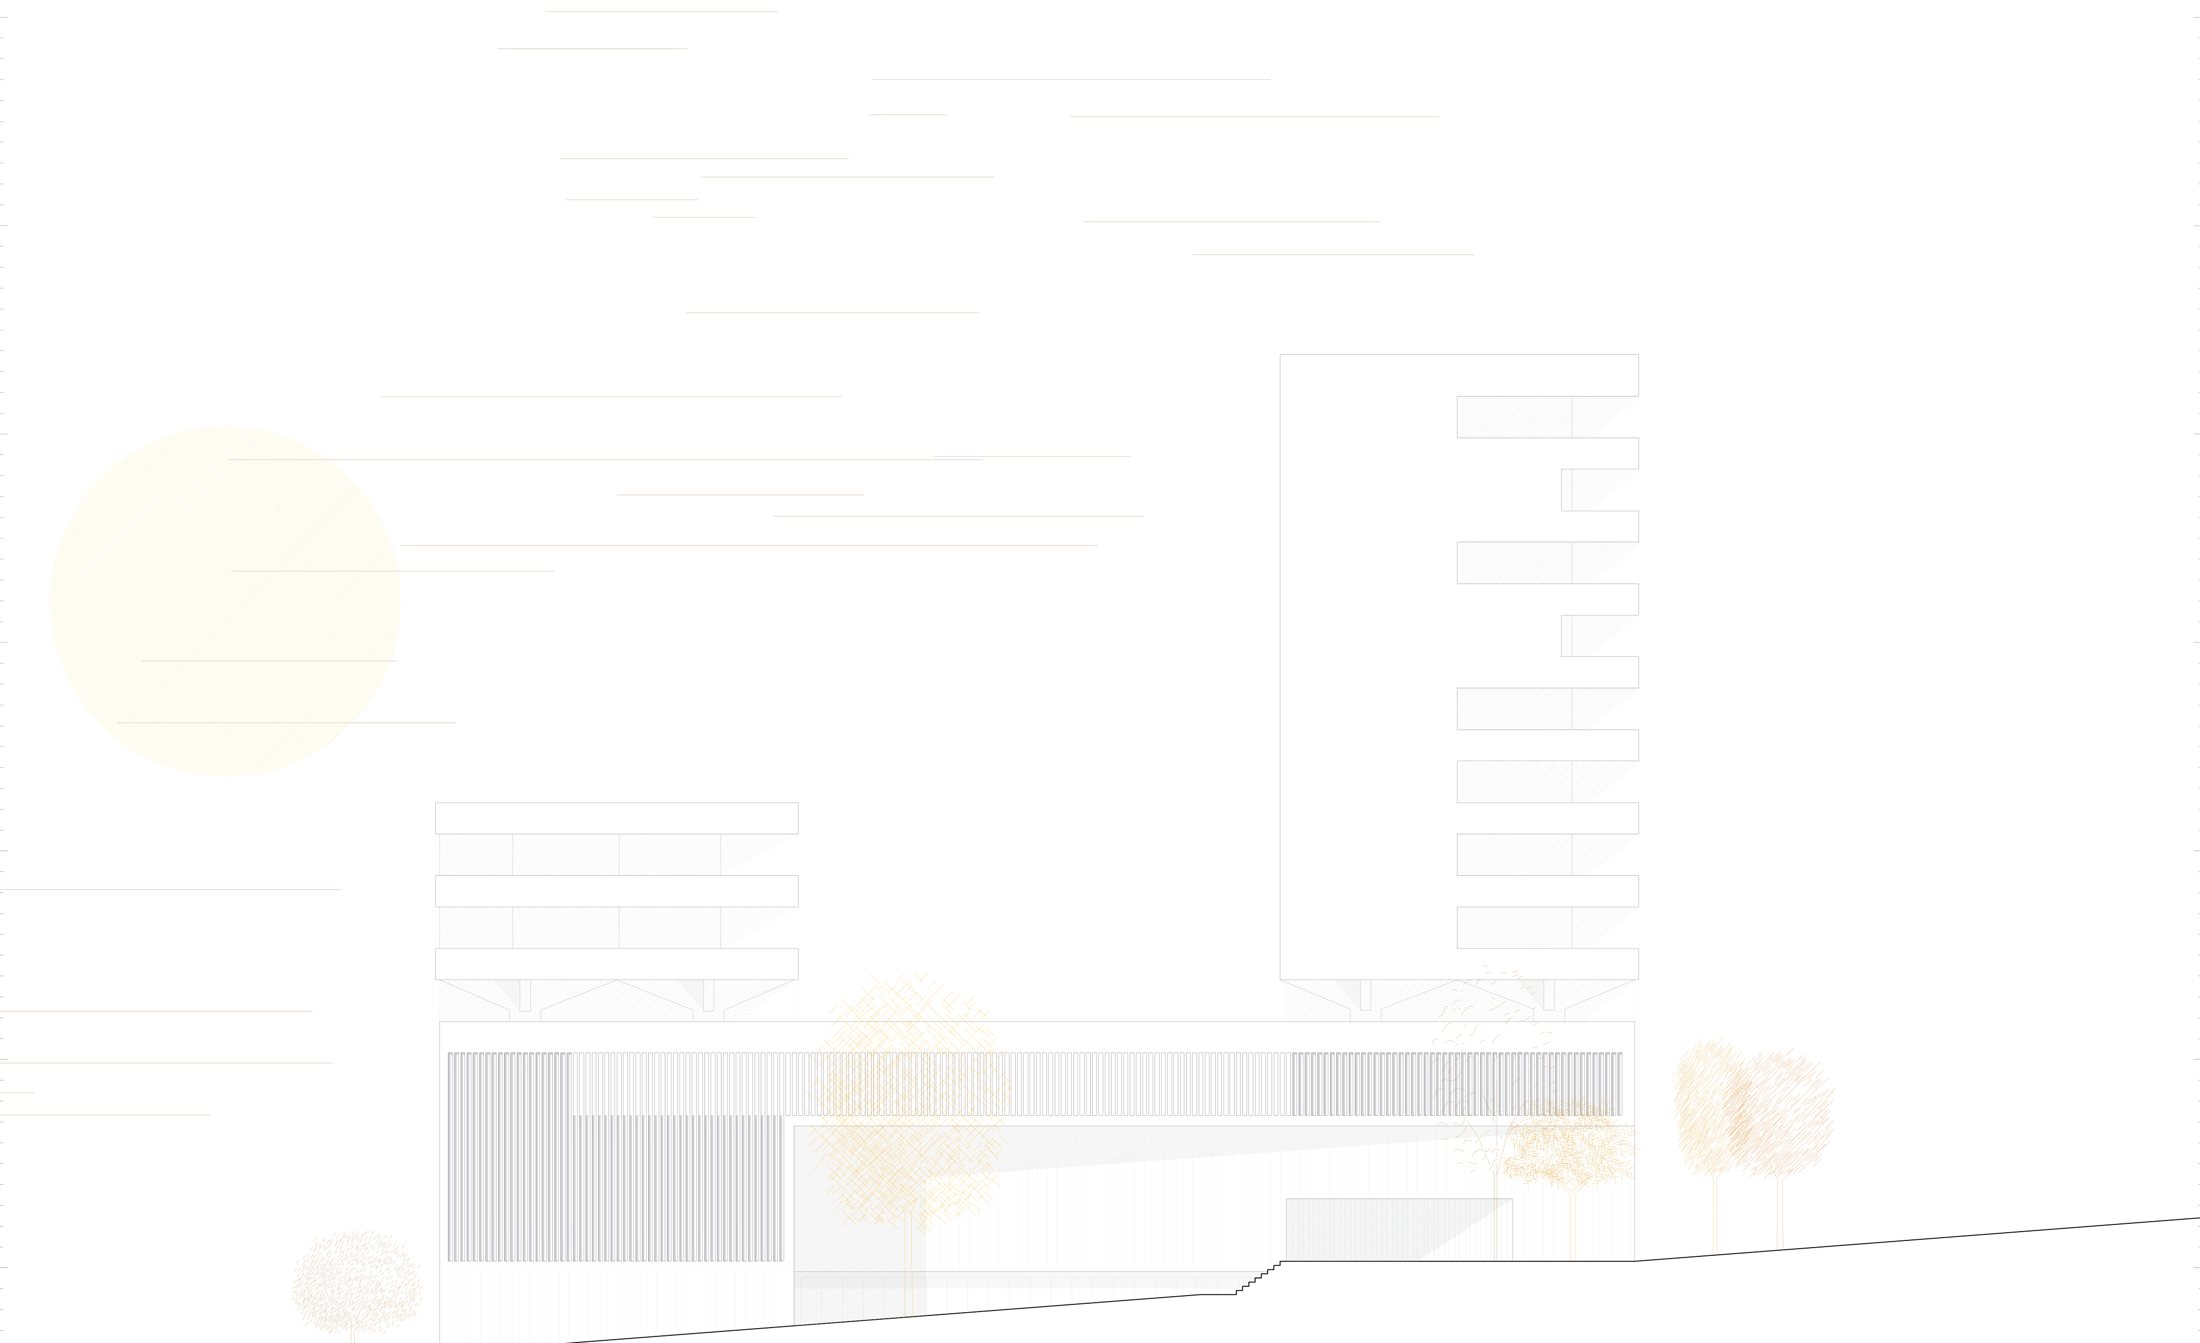
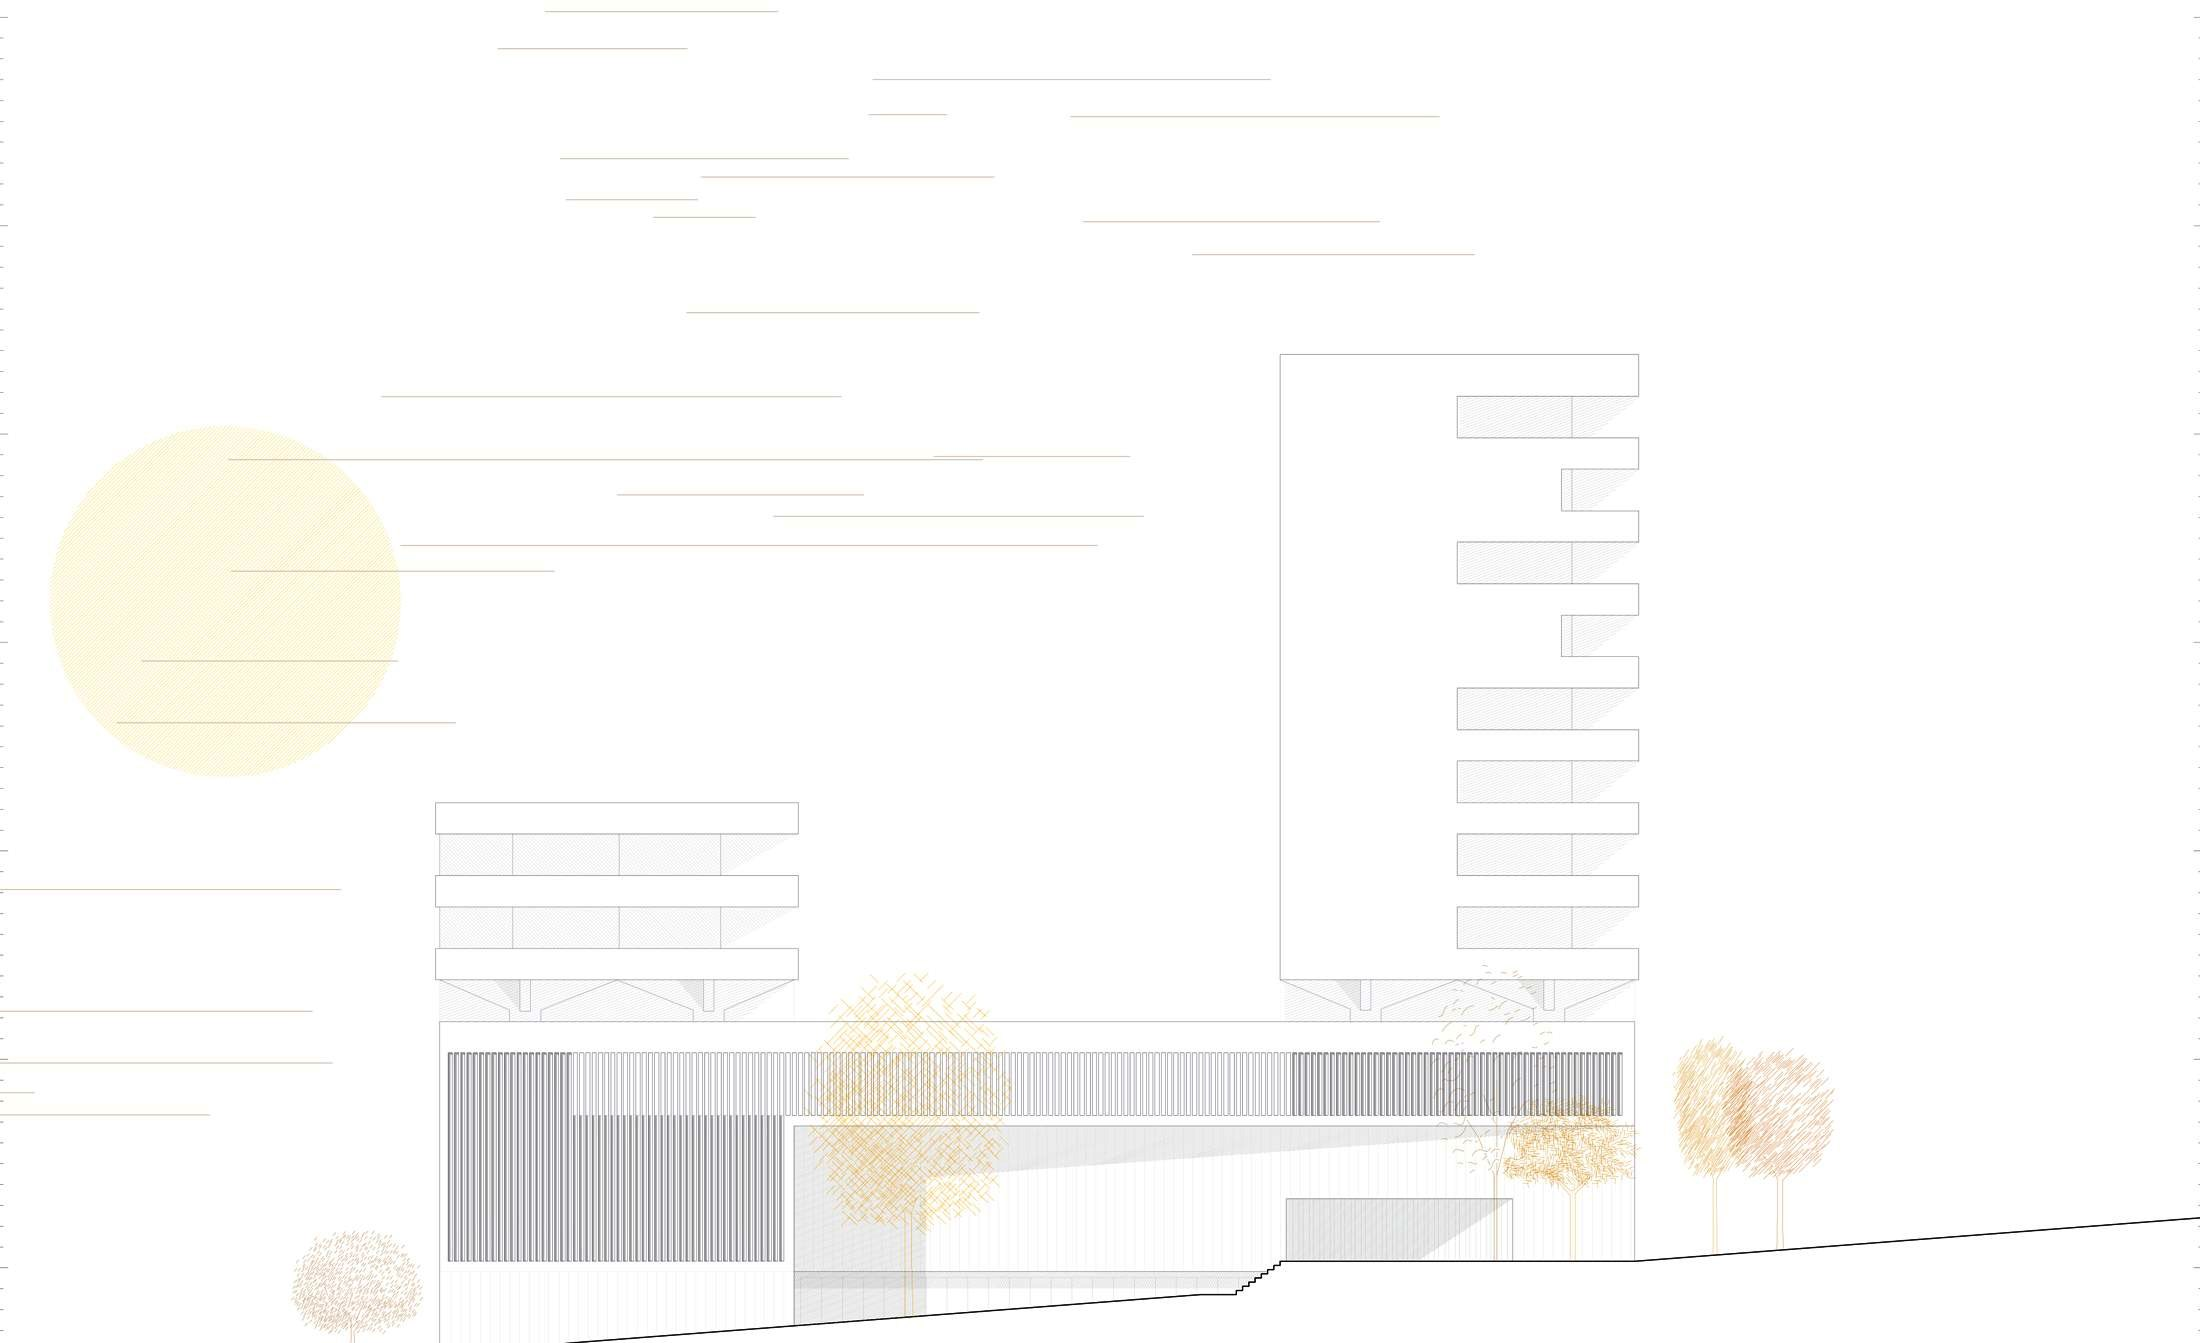
COLAB: fondo blanco, líneas de alzados y secciones reforzadas, leyenda de la axo al pasar por encima

Changed region(s): [[0.1855, 0.7632, 0.8345, 0.9464], [0.1236, 0.9464, 0.1855, 1.0], [0.4018, 0.9464, 0.4327, 0.9769]]

diff --git a/src/data/content.ts b/src/data/content.ts
@@ -169,6 +169,7 @@ export type ArchiveProject = {
   links?: { label: string; href: string }[];
   credit?: string;
   hideImages?: number[]; // posiciones (1 = primera) que ya aparecen en la composición
+  white?: boolean; // fondo blanco y más contraste en los dibujos
 };
 
 export const archiveGroups = {
@@ -290,6 +291,7 @@ export const archive: ArchiveProject[] = [
   },
   {
     slug: 'colab',
+    white: true,
     group: 'unav',
     title: 'COLAB',
     subtitle: 'Intergenerational centre. Master’s final project',

diff --git a/src/styles/global.css b/src/styles/global.css
@@ -55,3 +55,10 @@ a {
   background: var(--paper);
   padding: 6px 10px;
 }
+
+/* Fichas con fondo blanco (p. ej. COLAB): el papel pasa a ser blanco puro.
+   Las líneas finas de los dibujos se oscurecen en las propias imágenes. */
+:root:has(.paper-white) {
+  --paper: #ffffff;
+  --paper-2: #f2f3f5;
+}
